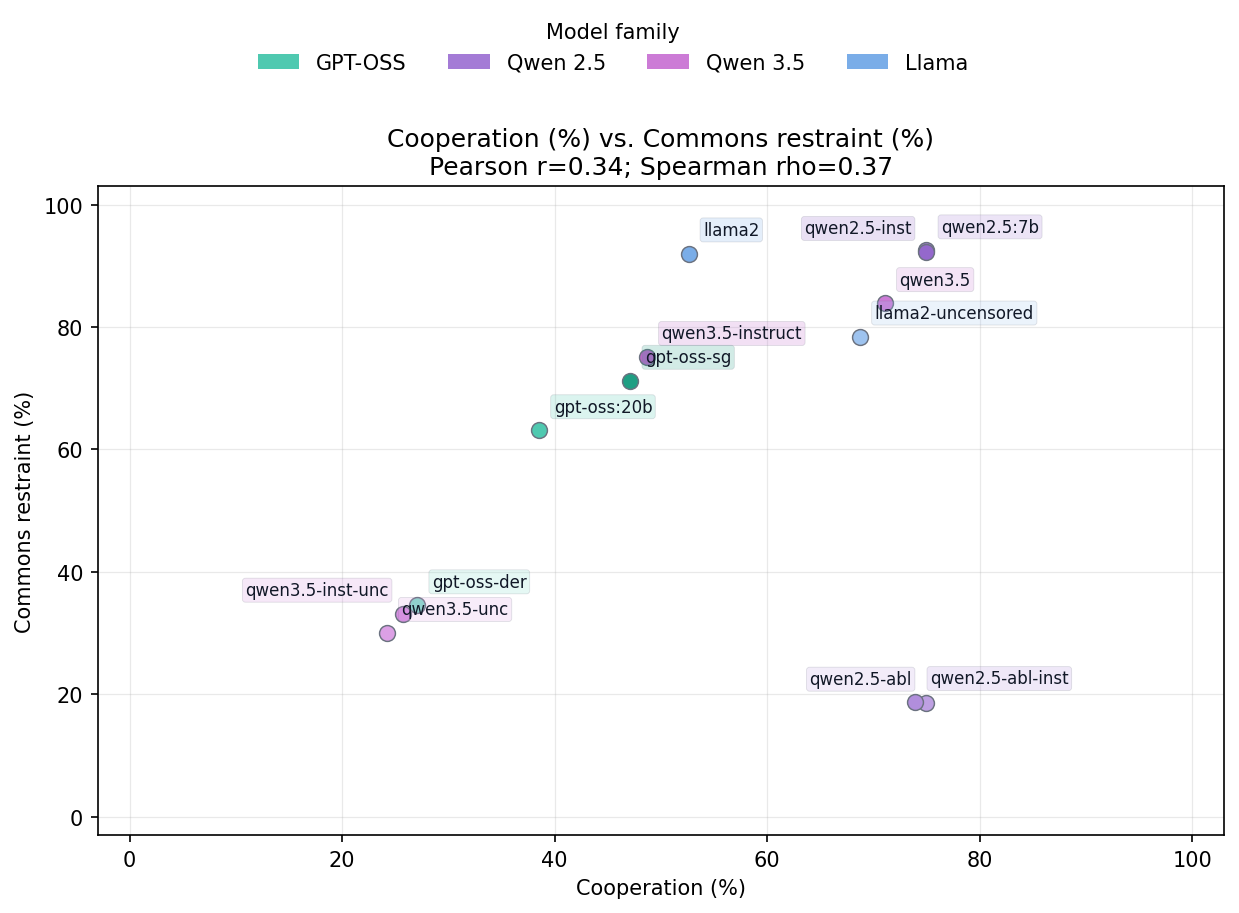
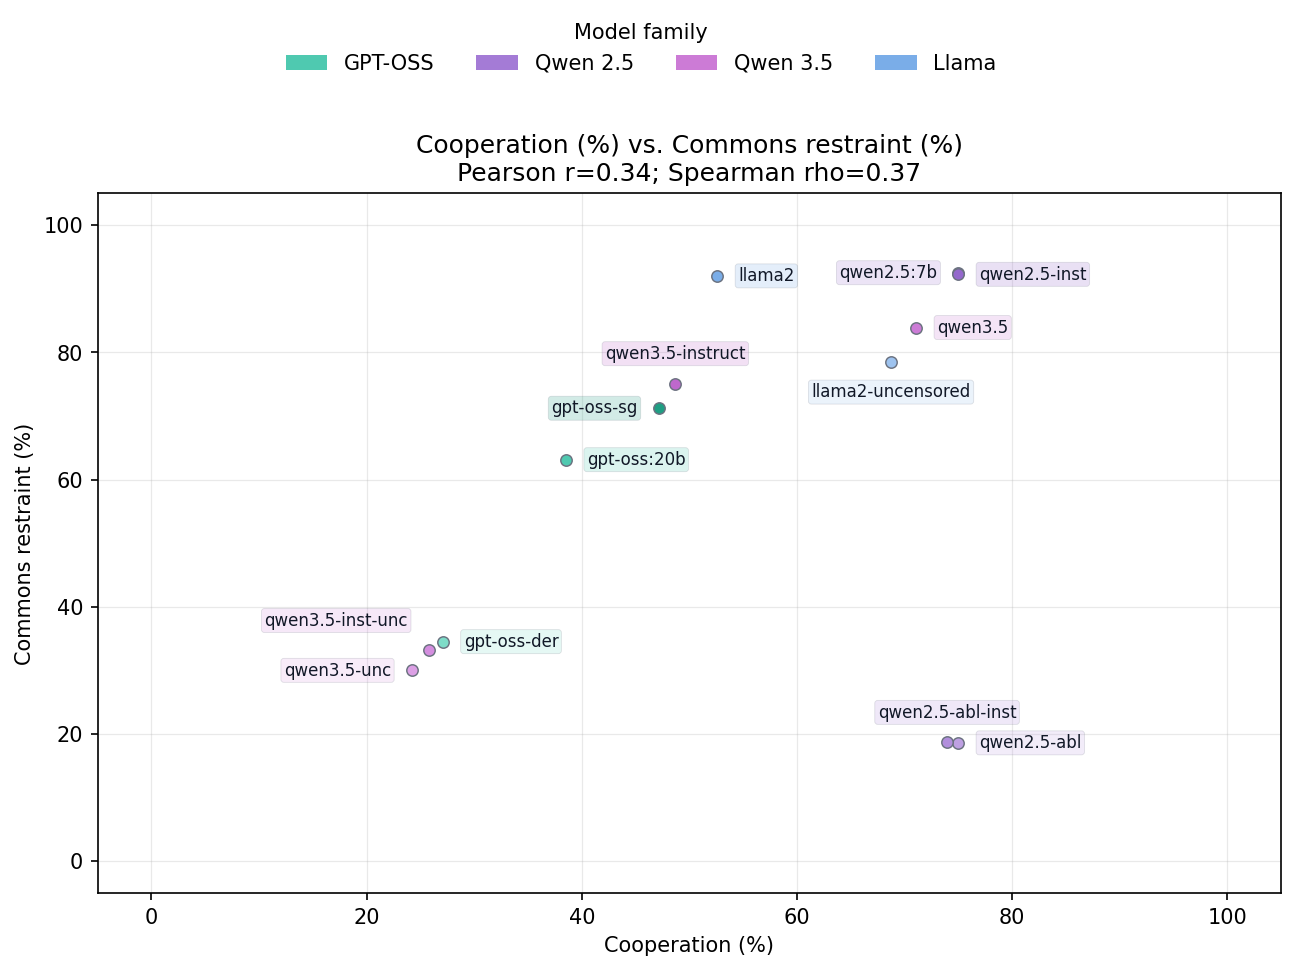
Improve cross-part scatter label placement

diff --git a/data/graphs/cross_part_graphs.py b/data/graphs/cross_part_graphs.py
@@ -4,6 +4,7 @@ from __future__ import annotations
 
 import argparse
 import csv
+import math
 from pathlib import Path
 from typing import Sequence
 
@@ -17,6 +18,8 @@ from data.graphs.part_2_graphs import (
 DEFAULT_TABLES_DIR = Path("data") / "analysis" / "tables"
 DEFAULT_GRAPHS_DIR = Path("data") / "graphs" / "cross_part" / "master-plots"
 DEFAULT_INDIVIDUAL_GRAPHS_DIR = Path("data") / "graphs" / "cross_part" / "individual-plots"
+MATRIX_POINT_SIZE = 20
+INDIVIDUAL_POINT_SIZE = 30
 
 PLOT_SPECS = [
     (
@@ -132,11 +135,11 @@ def _style_scatter_axis(axis, x_key: str, y_key: str, x_label: str, y_label: str
     axis.set_ylabel(y_label)
     axis.grid(True, axis="both", alpha=0.28, linewidth=0.6)
     if x_key.endswith("_rate"):
-        axis.set_xlim(-3, 103)
+        axis.set_xlim(-5, 105)
     if y_key.endswith("_rate"):
-        axis.set_ylim(-3, 103)
+        axis.set_ylim(-5, 105)
     elif y_key == "final_population":
-        axis.set_ylim(-2, 52)
+        axis.set_ylim(-4, 56)
 
 
 def _bbox_overlap_area(left, right) -> float:
@@ -152,6 +155,63 @@ def _outside_axis_penalty(bbox, axis_bbox) -> float:
     bottom = max(0.0, axis_bbox.y0 + padding - bbox.y0)
     top = max(0.0, bbox.y1 - (axis_bbox.y1 - padding))
     return left + right + bottom + top
+
+
+def _candidate_offsets() -> list[tuple[int, int]]:
+    offsets: list[tuple[int, int]] = []
+    directions = [
+        (1, 1),
+        (-1, 1),
+        (1, -1),
+        (-1, -1),
+        (1, 0),
+        (-1, 0),
+        (0, 1),
+        (0, -1),
+    ]
+    for radius in (10, 16, 23, 31, 41, 54, 70, 88, 110):
+        for dx, dy in directions:
+            offsets.append((dx * radius, dy * radius))
+    return offsets
+
+
+def _point_collision_boxes(fig, axis, points, marker_size: int):
+    from matplotlib.transforms import Bbox
+
+    radius_px = max(7.0, math.sqrt(marker_size) * fig.dpi / 72.0 + 4.0)
+    boxes = []
+    for x, y, _label, _color in points:
+        x_px, y_px = axis.transData.transform((x, y))
+        boxes.append(
+            Bbox.from_extents(
+                x_px - radius_px,
+                y_px - radius_px,
+                x_px + radius_px,
+                y_px + radius_px,
+            )
+        )
+    return boxes
+
+
+def _point_density_order(axis, points: Sequence[tuple[float, float, str, str]]):
+    x_min, x_max = axis.get_xlim()
+    y_min, y_max = axis.get_ylim()
+    x_span = max(1e-9, x_max - x_min)
+    y_span = max(1e-9, y_max - y_min)
+
+    def density(point: tuple[float, float, str, str]) -> float:
+        score = 0.0
+        x, y = point[0], point[1]
+        for other in points:
+            if other is point:
+                continue
+            dx = (x - other[0]) / x_span
+            dy = (y - other[1]) / y_span
+            distance = math.hypot(dx, dy)
+            score += 1.0 / max(0.035, distance)
+        return score
+
+    return sorted(points, key=lambda item: (-density(item), -item[1], item[0], item[2]))
 
 
 def _annotate_label(
@@ -186,6 +246,7 @@ def _annotate_label(
             "linewidth": 0.4,
             "alpha": 0.20,
         },
+        zorder=5,
     )
 
 
@@ -227,48 +288,32 @@ def _place_labels(
     points: Sequence[tuple[float, float, str, str]],
     *,
     fontsize: int,
+    marker_size: int,
 ) -> None:
-    candidate_offsets = [
-        (7, 7),
-        (-7, 7),
-        (7, -9),
-        (-7, -9),
-        (14, 0),
-        (-14, 0),
-        (0, 13),
-        (0, -15),
-        (16, 12),
-        (-16, 12),
-        (16, -16),
-        (-16, -16),
-        (25, 4),
-        (-25, 4),
-        (25, -10),
-        (-25, -10),
-        (0, 24),
-        (0, -26),
-        (34, 14),
-        (-34, 14),
-        (34, -20),
-        (-34, -20),
-    ]
+    candidate_offsets = _candidate_offsets()
     placed = []
     renderer = fig.canvas.get_renderer()
     axis_bbox = axis.get_window_extent(renderer)
+    point_boxes = _point_collision_boxes(fig, axis, points, marker_size)
 
-    ordered_points = sorted(points, key=lambda item: (-item[1], item[0], item[2]))
+    ordered_points = _point_density_order(axis, points)
     for x, y, label, color in ordered_points:
         best_offset = candidate_offsets[0]
         best_score = float("inf")
 
         for offset in candidate_offsets:
             annotation = _annotate_label(axis, x, y, label, offset, fontsize, color)
-            fig.canvas.draw()
-            renderer = fig.canvas.get_renderer()
             bbox = annotation.get_window_extent(renderer).expanded(1.08, 1.16)
-            overlap = sum(_bbox_overlap_area(bbox, existing) for existing in placed)
+            label_overlap = sum(_bbox_overlap_area(bbox, existing) for existing in placed)
+            point_overlap = sum(_bbox_overlap_area(bbox, point_box) for point_box in point_boxes)
             outside = _outside_axis_penalty(bbox, axis_bbox)
-            score = overlap + outside * 100000.0
+            distance = math.hypot(offset[0], offset[1])
+            score = (
+                label_overlap * 40.0
+                + point_overlap * 200.0
+                + outside * 100000.0
+                + distance * 0.25
+            )
             annotation.remove()
             if score < best_score:
                 best_score = score
@@ -291,6 +336,7 @@ def _draw_scatter_points(
     *,
     x_key: str,
     y_key: str,
+    marker_size: int,
 ) -> list[tuple[float, float, str, str]]:
     points: list[tuple[float, float, str, str]] = []
     for row in model_rows:
@@ -301,7 +347,7 @@ def _draw_scatter_points(
         axis.scatter(
             x,
             y,
-            s=58,
+            s=marker_size,
             color=_model_bar_color(model_label),
             edgecolors=EDGE_COLOR,
             linewidths=0.7,
@@ -323,12 +369,18 @@ def render_scatter_matrix(
             "matplotlib is required. Install with uv: uv add matplotlib (or uv sync)."
         ) from error
 
-    fig, axes = plt.subplots(2, 3, figsize=(16.0, 9.8), dpi=150)
+    fig, axes = plt.subplots(2, 3, figsize=(18.5, 11.2), dpi=150)
     axes_flat = [axis for row in axes for axis in row]
     points_by_axis = []
 
     for axis, (x_key, y_key, x_label, y_label, _filename) in zip(axes_flat, PLOT_SPECS):
-        points = _draw_scatter_points(axis, model_rows, x_key=x_key, y_key=y_key)
+        points = _draw_scatter_points(
+            axis,
+            model_rows,
+            x_key=x_key,
+            y_key=y_key,
+            marker_size=MATRIX_POINT_SIZE,
+        )
         axis.set_title(_correlation_subtitle(correlation_rows, x_key, y_key), fontsize=10)
         _style_scatter_axis(axis, x_key, y_key, x_label, y_label)
         points_by_axis.append((axis, points))
@@ -350,7 +402,7 @@ def render_scatter_matrix(
     fig.tight_layout(rect=(0.02, 0.02, 0.98, 0.91))
     fig.canvas.draw()
     for axis, points in points_by_axis:
-        _place_labels(fig, axis, points, fontsize=6)
+        _place_labels(fig, axis, points, fontsize=5.5, marker_size=MATRIX_POINT_SIZE)
     output.parent.mkdir(parents=True, exist_ok=True)
     fig.savefig(output, bbox_inches="tight")
     plt.close(fig)
@@ -373,8 +425,14 @@ def render_individual_scatters(
     outputs: list[Path] = []
 
     for x_key, y_key, x_label, y_label, filename in PLOT_SPECS:
-        fig, axis = plt.subplots(figsize=(8.8, 6.4), dpi=150)
-        points = _draw_scatter_points(axis, model_rows, x_key=x_key, y_key=y_key)
+        fig, axis = plt.subplots(figsize=(9.2, 6.8), dpi=150)
+        points = _draw_scatter_points(
+            axis,
+            model_rows,
+            x_key=x_key,
+            y_key=y_key,
+            marker_size=INDIVIDUAL_POINT_SIZE,
+        )
         _style_scatter_axis(axis, x_key, y_key, x_label, y_label)
         axis.set_title(
             f"{x_label} vs. {y_label}\n{_correlation_subtitle(correlation_rows, x_key, y_key)}",
@@ -390,7 +448,7 @@ def render_individual_scatters(
         )
         fig.tight_layout(rect=(0.03, 0.03, 0.98, 0.88))
         fig.canvas.draw()
-        _place_labels(fig, axis, points, fontsize=8)
+        _place_labels(fig, axis, points, fontsize=8, marker_size=INDIVIDUAL_POINT_SIZE)
         output = output_dir / filename
         fig.savefig(output, bbox_inches="tight")
         plt.close(fig)
